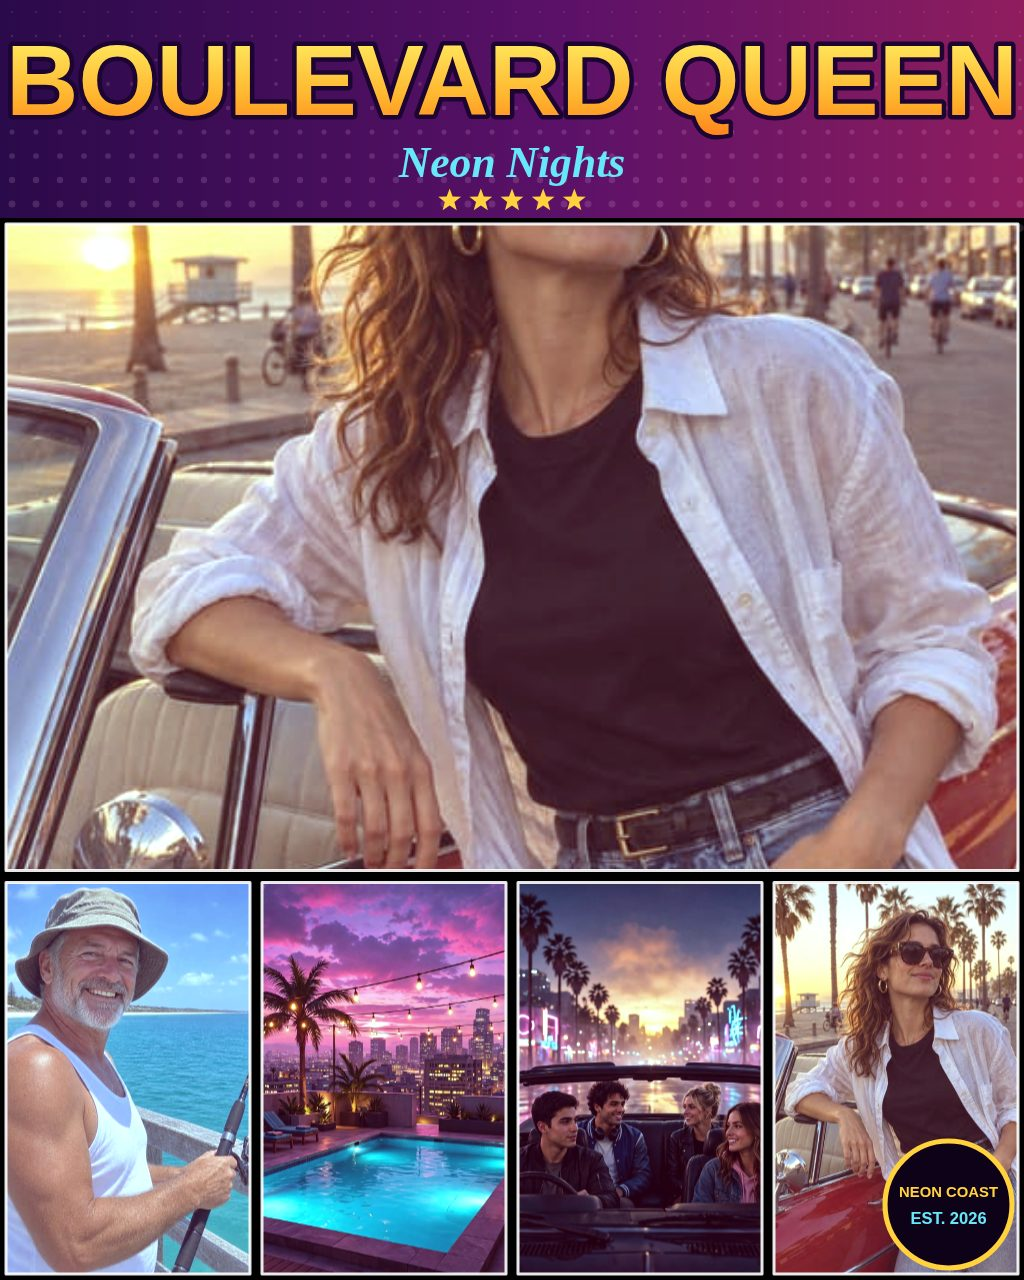
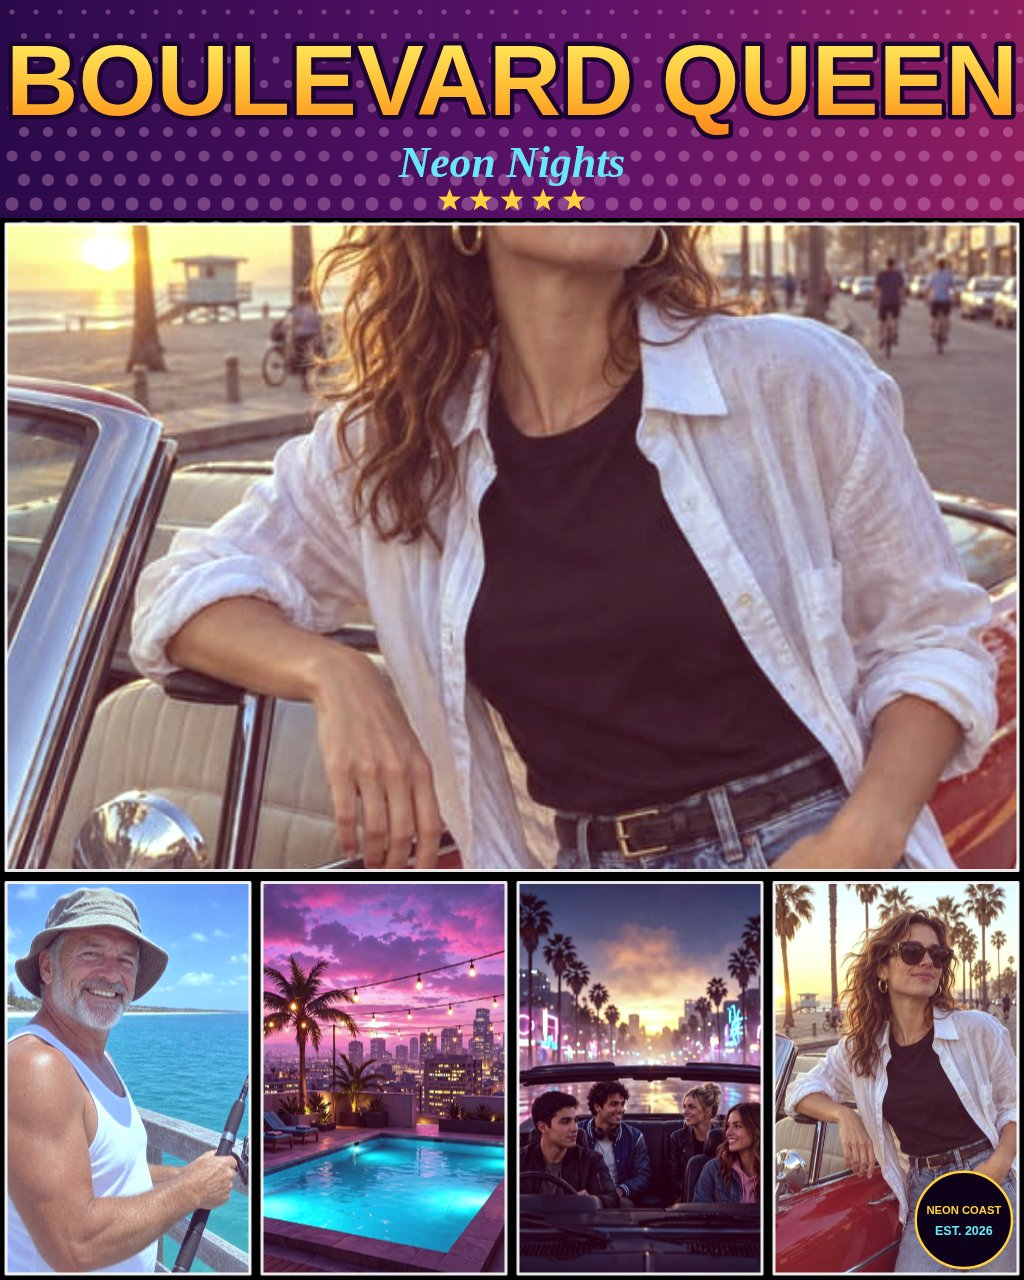
v4 fix: soften Poster Ink, smaller badge, halftone title

Changed region(s): [[0.0, 0.0938, 1.0, 0.1875], [0.8438, 0.875, 1.0, 1.0]]

diff --git a/app/src/cover.js b/app/src/cover.js
@@ -120,7 +120,7 @@ function posterizeChannel(v, levels) {
 }
 
 function gradePosterInk(d, w, h) {
-  const levels = 4;
+  const levels = 6;
   const lum = new Float32Array(w * h);
   for (let i = 0, p = 0; i < d.length; i += 4, p++) {
     d[i] = posterizeChannel(d[i], levels);
@@ -148,11 +148,12 @@ function gradePosterInk(d, w, h) {
   }
   for (let p = 0; p < w * h; p++) {
     const strength = edge[p];
-    // Only real contours get inked: below 110 the posterized flats stay clean,
-    // above 240 the line is at full strength so edges read as printed ink.
-    if (strength > 110) {
+    // Only real contours get inked: below 140 the posterized flats stay clean,
+    // above 240 the line is at half strength so edges read as printed ink
+    // without swallowing faces.
+    if (strength > 140) {
       const i = p * 4;
-      const ink = strength > 240 ? 0.92 : 0.55;
+      const ink = strength > 240 ? 0.46 : 0.27;
       d[i] = d[i] * (1 - ink) + 18 * ink;
       d[i + 1] = d[i + 1] * (1 - ink) + 8 * ink;
       d[i + 2] = d[i + 2] * (1 - ink) + 26 * ink;
@@ -218,14 +219,15 @@ export function drawTitleBand(ctx, w, bandH, title, subtitle) {
   ctx.fillRect(0, 0, w, bandH);
 
   // Halftone dot field, denser toward the bottom of the band.
+  // Staggered rows, dots big and bright enough to read as print halftone.
   const step = Math.max(9, Math.round(bandH / 9));
   for (let row = 0; row * step < bandH; row++) {
-    for (let col = 0; col * step < w; col++) {
-      const fade = 0.25 + 0.75 * (row * step / bandH);
-      const r = step * 0.16 * fade;
-      ctx.fillStyle = 'rgba(255, 190, 235, 0.16)';
+    for (let col = 0; col * step < w + step; col++) {
+      const fade = 0.35 + 0.65 * (row * step / bandH);
+      const r = step * 0.3 * fade;
+      ctx.fillStyle = 'rgba(255, 190, 235, 0.3)';
       ctx.beginPath();
-      ctx.arc(col * step + step / 2, row * step + step / 2, r, 0, Math.PI * 2);
+      ctx.arc(col * step + step / 2 + (row % 2 ? step / 2 : 0), row * step + step / 2, r, 0, Math.PI * 2);
       ctx.fill();
     }
   }
@@ -269,7 +271,7 @@ export function drawBadge(ctx, cx, cy, r) {
   ctx.arc(cx, cy, r, 0, Math.PI * 2);
   ctx.fillStyle = '#0d0218';
   ctx.fill();
-  ctx.lineWidth = Math.max(2, r * 0.08);
+  ctx.lineWidth = Math.max(1.5, r * 0.05);
   ctx.strokeStyle = '#ffd23e';
   ctx.stroke();
   ctx.fillStyle = '#ffd23e';
@@ -407,8 +409,9 @@ export function renderCover(state, width, height) {
     }
   });
 
-  // Badge sits over the bottom-right of the photo area.
-  const badgeR = Math.max(26, width * 0.062);
+  // Badge sits over the bottom-right of the photo area: small (~60px radius
+  // on a 1280-wide cover) so it stays inside the corner panel.
+  const badgeR = Math.max(22, width * 0.047);
   drawBadge(ctx, width - badgeR - gutter * 2, height - badgeR - gutter * 2, badgeR);
 
   return canvas;
